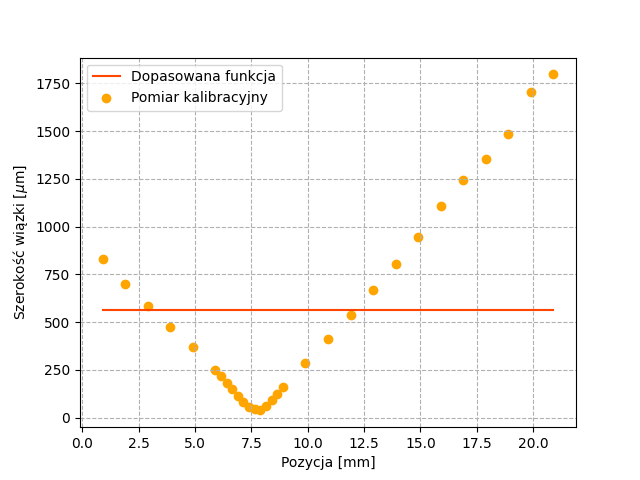
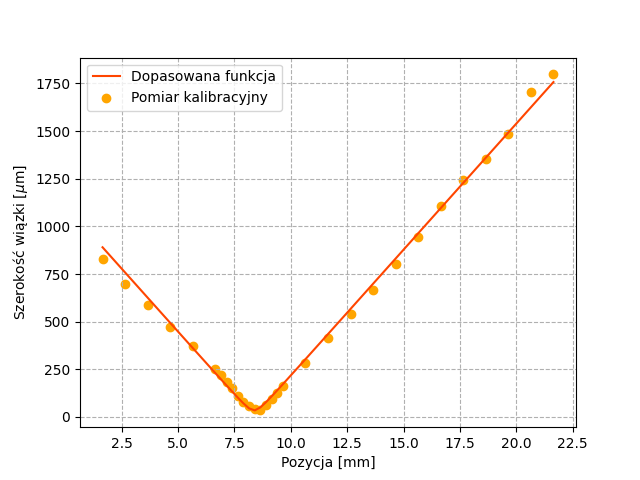
fluencja fix (zas)

diff --git a/skrypty/transmittance_vs_fluence.py b/skrypty/transmittance_vs_fluence.py
@@ -22,16 +22,16 @@ def T_fit(F, T_ns, T_delt, F_sat):#, F_2):
 
 
 '''CALIBRATION DATA'''
-save_path = r'C:\Users\mkowa\Desktop\Julia\Rezonatory2025\wyniki\wyniki_080825'
-my_path = r'C:\Users\mkowa\Desktop\Julia\Rezonatory2025\pomiary\pomiary_080825'
+save_path = r'C:\Users\gosc\Desktop\Rezonatory2025\Rezonatory2025\wyniki\wyniki_060825'
+my_path = r'C:\Users\gosc\Desktop\Rezonatory2025\Rezonatory2025\pomiary\pomiary_040825'
 # dotyczy pomiarow do 010825 do probki grafen_m1_4 -> wtedy nazwa kalibracja.txt
 # my_path2 = r'C:\Users\gosc\Desktop\Rezonatory2025\Rezonatory2025\wyniki\wyniki_230725'
 # dotyczy pomiarow od 010825 do probki grafen_m1_4 -> wtedy nazwa beam_profile.txt
-my_path2 = r'C:\Users\mkowa\Desktop\Julia\Rezonatory2025\pomiary\pomiary_010825'
+my_path2 = r'C:\Users\gosc\Desktop\Rezonatory2025\Rezonatory2025\pomiary\pomiary_010825'
 # filename_cal = os.path.join(my_path2, 'kalibracja.txt')
 filename_cal = os.path.join(my_path2, 'beam_profile.txt')
 # nazwa wykresu
-file_save2 = 'dwie_soczewki_fluencja_dopasowanie.png'
+file_save2 = 'laser_vs_probka_13_040825_fluencja_dopasowanie.png'
 
 
 data_cal = np.array(np.genfromtxt(filename_cal))
@@ -41,11 +41,11 @@ d_cal_Y = data_cal[:, 2]*1e-6 #um -> m
 
 zx_min = z_cal[np.argmin(d_cal_X)]
 zy_min = z_cal[np.argmin(d_cal_Y)]
-z_min = zx_min
+z_min = zy_min
 
 '''GRAPH SHIFT'''
 
-file_zscan = 'dwie_soczewki_080825.csv'
+file_zscan = 'laser_vs_probka_13_040825.csv'
 data = pd.read_csv(os.path.join(my_path, file_zscan))
 df = pd.DataFrame(data)
  
@@ -97,16 +97,16 @@ fitParams_Y, fitCovariances_Y = optimize.curve_fit(d4Sig, z_cal, d_cal_Y, p0=(14
 
 # plt.plot(z1_cal, d4Sig(z1_cal, fitParams_X1[0], fitParams_X1[1], fitParams_X1[2]), label='z1')
 # plt.plot(z2_cal, d4Sig(z2_cal, fitParams_X2[0], fitParams_X2[1], fitParams_X2[2]), label='z2')
-plt.plot(z_cal*1e3, d4Sig(z_cal, fitParams_X[0], fitParams_X[1], fitParams_X[2])*1e6, color = 'orangered', label = 'Dopasowana funkcja')
-plt.scatter(z_cal*1e3, d_cal_X*1e6, color = 'orange', label='Pomiar kalibracyjny')
-file_save = 'fit.png'
-plt.legend()
-plt.ylabel(r"Szerokość wiązki [$\mu$m]")
-plt.xlabel("Pozycja [mm]")
-plt.legend()
-plt.grid(ls='--')
-plt.savefig(os.path.join(my_path, file_save))
-plt.show()
+# plt.plot(z_cal*1e3, d4Sig(z_cal, fitParams_X[0], fitParams_X[1], fitParams_X[2])*1e6, color = 'orangered', label = 'Dopasowana funkcja')
+# plt.scatter(z_cal*1e3, d_cal_X*1e6, color = 'orange', label='Pomiar kalibracyjny')
+# file_save = 'fit.png'
+# plt.legend()
+# plt.ylabel(r"Szerokość wiązki [$\mu$m]")
+# plt.xlabel("Pozycja [mm]")
+# plt.legend()
+# plt.grid(ls='--')
+# plt.savefig(os.path.join(my_path, file_save))
+# plt.show()
 
 '''FLUENCE CALCULATION'''
 
